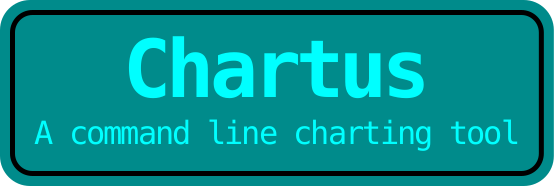
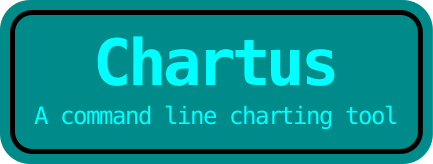
Fix various minor issues

diff --git a/src/chart_html.cpp b/src/chart_html.cpp
@@ -159,20 +159,52 @@ void HTML::CommitSnapPoints( Series* series, bool force )
 
 ////////////////////////////////////////////////////////////////////////////////
 
+std::string escapeHTML( std::string_view s ) {
+  std::ostringstream oss;
+
+  for ( unsigned char c : s ) {
+    switch ( c ) {
+      case '<'  : oss << "&lt;"; break;
+      case '>'  : oss << "&gt;"; break;
+      case '&'  : oss << "&amp;"; break;
+      case '\'' : oss << "&apos;"; break;
+      case '"'  : oss << "&quot;"; break;
+      default: {
+        if ( c < ' ' || c == 0x7F ) {
+          oss << ' ';
+        } else {
+          oss << c;
+        }
+      }
+    }
+  }
+
+  return oss.str();
+}
+
+//------------------------------------------------------------------------------
+
 std::string quoteJS( std::string_view s ) {
   std::ostringstream oss;
   oss << '"';
-  for ( char c : s ) {
-    if ( static_cast<unsigned char>( c ) < ' ' ) {
-        oss << ' ';
-    } else if ( c == '"' ) {
-        oss << "\\\"";
-    } else if ( c == '\\' ) {
-        oss << "\\\\";
-    } else {
-        oss << c;
+
+  for ( unsigned char c : s ) {
+    switch ( c ) {
+      case '"'  : oss << "\\\""; break;
+      case '\\' : oss << "\\\\"; break;
+      case '<'  : oss << "\\u003C"; break;
+      case '>'  : oss << "\\u003E"; break;
+      case '&'  : oss << "\\u0026"; break;
+      default: {
+        if ( c < ' ' || c == 0x7F ) {
+          oss << ' ';
+        } else {
+          oss << c;
+        }
+      }
     }
   }
+
   oss << '"';
   return oss.str();
 }
@@ -456,7 +488,7 @@ std::string HTML::GenHTML( SVG::Canvas* canvas )
 
   #include <chart_html_part1.h>
 
-  oss << "<title>" << ensemble->title_html << "</title>\n";
+  oss << "<title>" << escapeHTML( ensemble->title_html ) << "</title>\n";
   oss << "</head>\n";
   oss << "<body>\n";
 

diff --git a/src/chart_html_part2.h b/src/chart_html_part2.h
@@ -676,7 +676,7 @@ function createCategoryBoxes(x, y, axis) {
     }
     lst.forEach(e => {
       const snapPoint = chart.snapPoints[e.snapIdx];
-      const res = createInfoBox(snapPoint, e.x, e.y, anchor, false);
+      const res = createInfoBox(snapPoint, e.x, e.y, anchor);
       boxes.push({
         cx: res.cx, cy: res.cy,
         ox: res.cx, oy: res.cy,
@@ -740,10 +740,8 @@ function createSeriesHighlight(series) {
 
 ////////////////////////////////////////////////////////////////////////////////
 
-function createInfoBox(snapPoint, x, y, anchor, highlightSeries = true) {
-  let series = chart.seriesList[snapPoint.s]
-
-  if (highlightSeries) createSeriesHighlight(series);
+function createInfoBox(snapPoint, x, y, anchor) {
+  let series = chart.seriesList[snapPoint.s];
 
   // Create a group (<g>) to hold the box and text
   const group = newObj("g", true);
@@ -897,6 +895,10 @@ svg_snap.addEventListener("mousemove", (event) => {
       if (inCat) {
         createCategoryBoxes(x, y, catAxis);
       } else {
+        if (atPoint) {
+          const series = chart.seriesList[snapPoint.s];
+          createSeriesHighlight(series);
+        }
         createCrosshair(x, y, atPoint);
         let showX = [true, true];
         let showY = [true, true];

diff --git a/src/dash_e0.h b/src/dash_e0.h
@@ -6,11 +6,11 @@ BackgroundColor: darkcyan
 ChartArea: 10 10 Bare
 @TextColor: cyan
 @TextBold: On
-@TextSize: 5
+@TextSize: 4
 @Text: C C
   Chartus
-@TextSize: 2
+@TextSize: 1.5
 @TextBold: Off
-@Text: C C-60
+@Text: C C-50
   A command line charting tool
 )EOF";

diff --git a/src/main.cpp b/src/main.cpp
@@ -79,7 +79,7 @@ state_t state;
 
 void show_version( void )
 {
-  std::cout << R"EOF(chartus v2.1.0
+  std::cout << R"EOF(chartus v2.1.1
 This is free software: you are free to change and redistribute it.
 
 Written by Soren Kragh

diff --git a/src/chart_html_part1.h b/src/chart_html_part1.h
@@ -8,6 +8,7 @@ oss << R"EOF(
   <style>
     text {
       font-family: monospace;
+      white-space: pre;
     }
     html, body {
       margin: 0;

diff --git a/CHANGELOG.md b/CHANGELOG.md
@@ -16,6 +16,14 @@ All notable changes to this project will be documented in this file.
 
 ---
 
+## [2.1.1] - 2026-02-23
+
+### Fixed
+- Fix XSS injection vulnerability
+- Fix text spacing issue
+- Fix HTML highlight issue
+
+
 ## [2.1.0] - 2026-02-09
 
 ### Added

diff --git a/README.md b/README.md
@@ -2,6 +2,8 @@
   <img src="assets/e0.png" alt="Chartus">
 </div>
 
+&nbsp;
+
 Chartus is a simple Linux command line tool to generate basic charts in SVG or
 HTML format.
 
